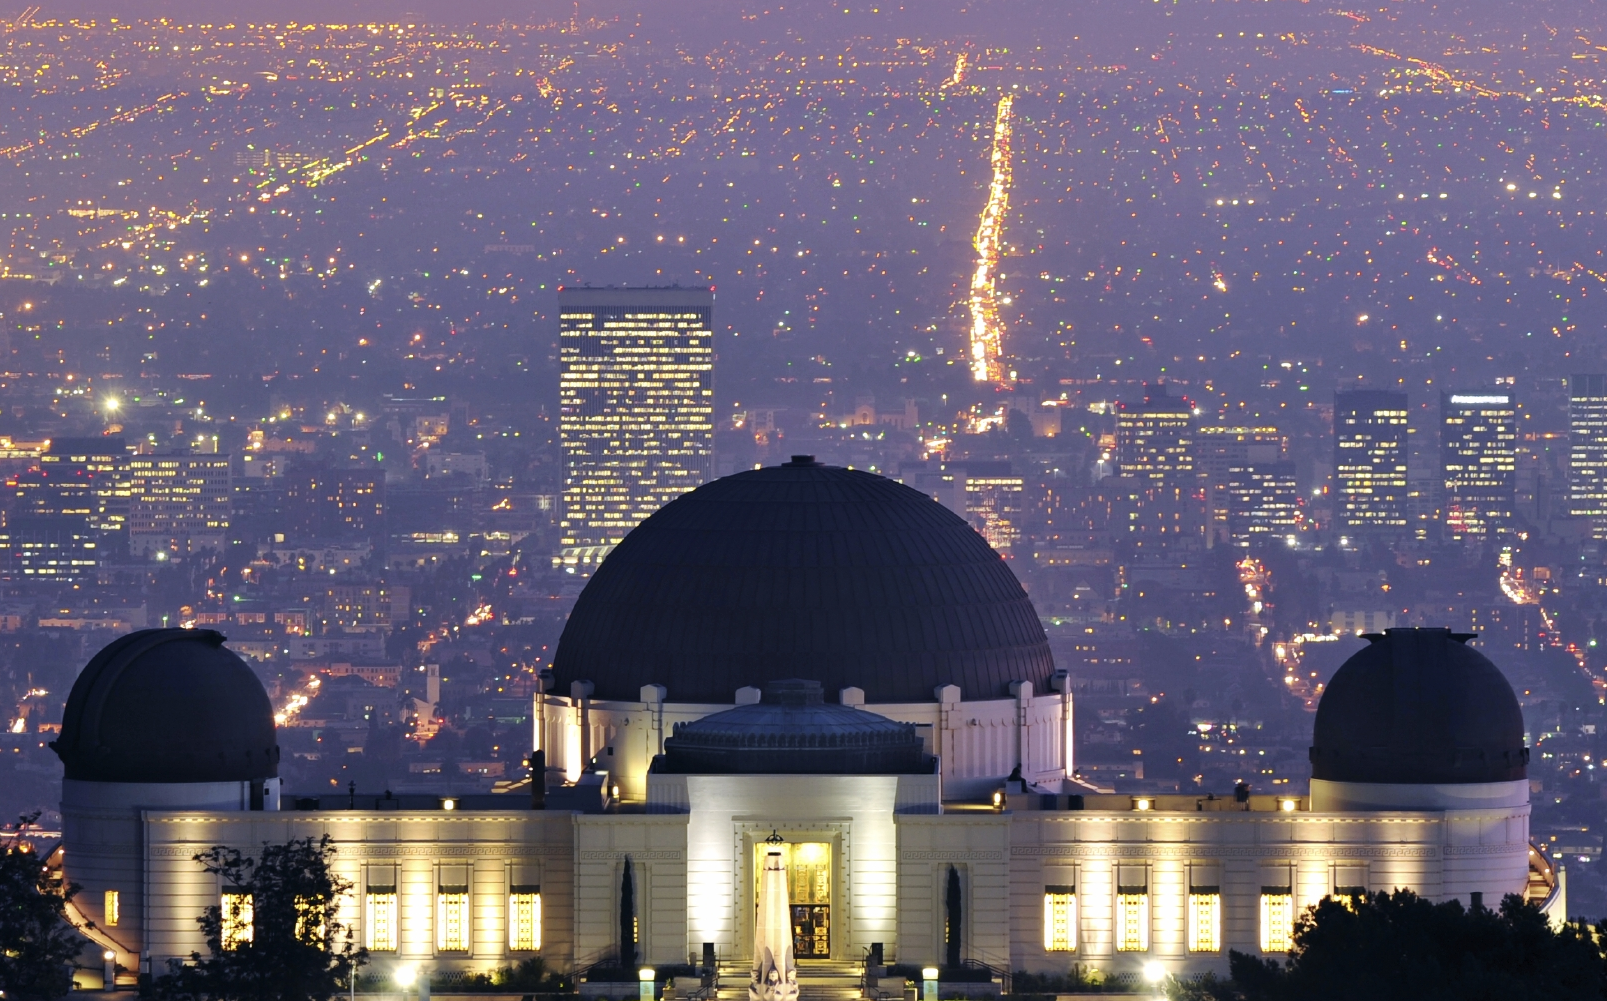
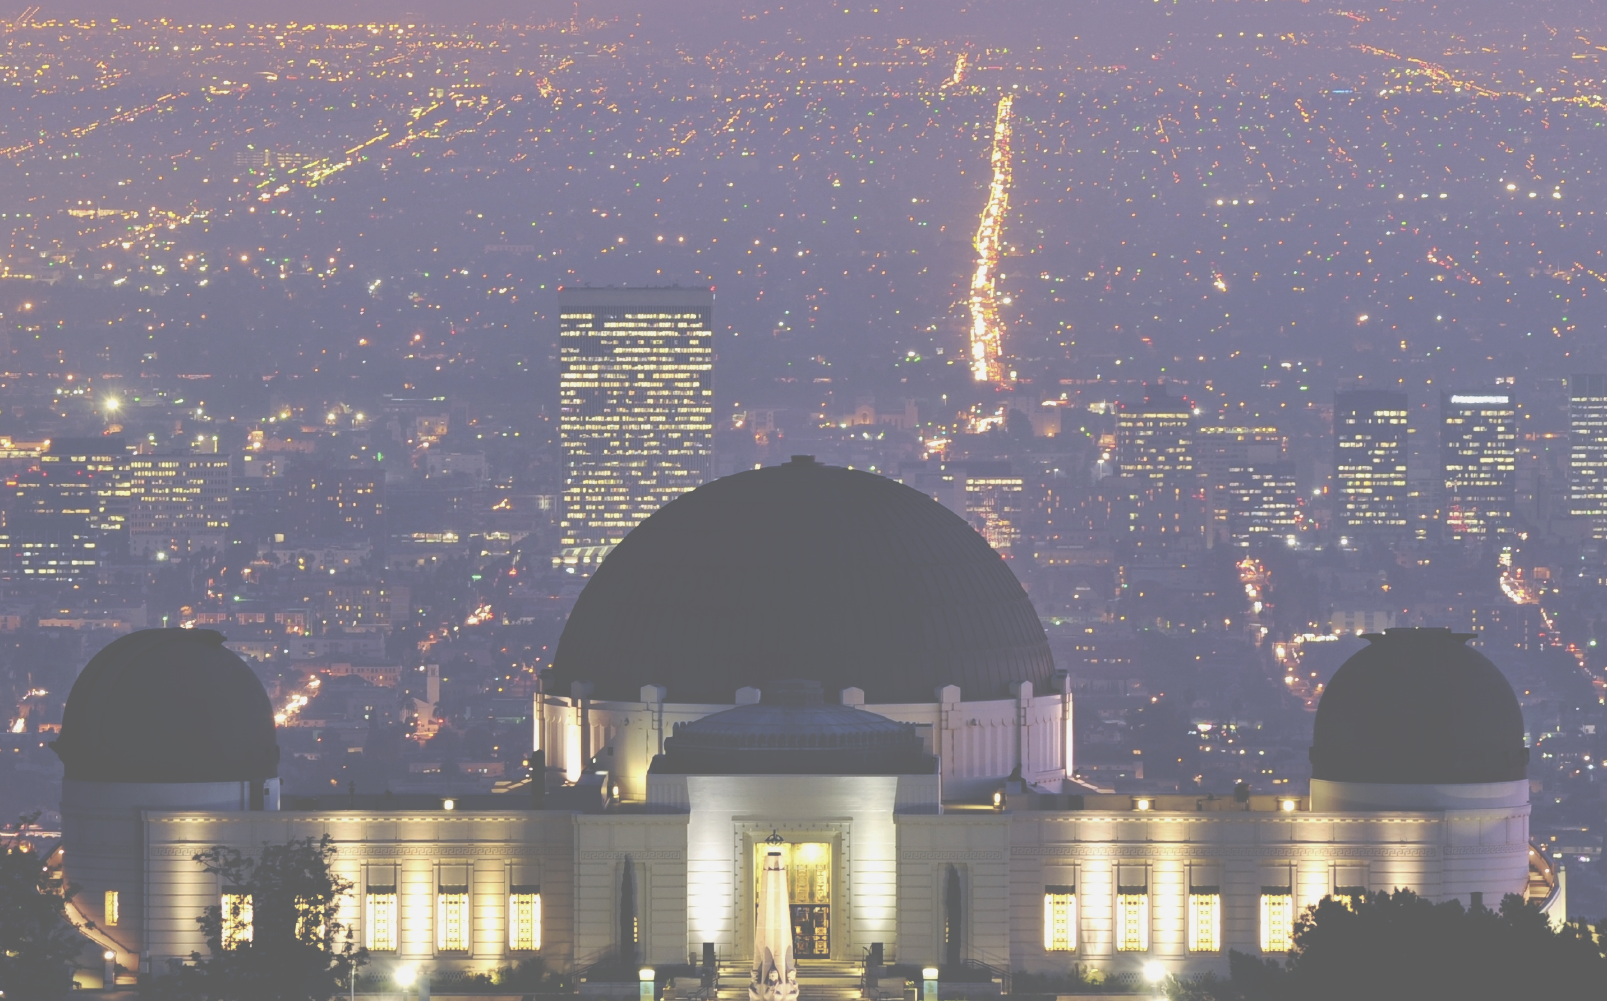
changes background images on main page

diff --git a/css/style.css b/css/style.css
@@ -6,15 +6,16 @@
 
 .row {
   background-repeat: no-repeat;
+  height: 700px;
 }
 
 #row1 {
-  background-image: url("../images/beach_postcard.png");
+  background-image: url("../images/manhattan_beach.png");
   background-size: cover;
   background-position: center center;
   margin-left: 0px;
   margin-top: 25px;
-  height: 675px;
+  /*height: 675px;*/
 }
 
 #start-textbox1 {
@@ -39,9 +40,10 @@
 
 #row2 {
 /*  background-color: #F5F4D3;*/
-  height: 680px;
-  background-image: url("../images/wilshire_postcard.png");
+  /*height: 680px;*/
+  background-image: url("../images/santa_monica.png");
   background-size: cover;
+  background-position: center center;
 }
 
 #start-textbox2 {
@@ -64,10 +66,11 @@
 }
 
 #row3 {
-  background-image: url("../images/hollywood_postcard.png");
+  background-image: url("../images/griffith.png");
   margin-left: 0px;
   background-size: cover;
-  height: 680px;
+  background-position: center center;
+  /*height: 680px;*/
 }
 
 #start-textbox3 {
@@ -108,7 +111,7 @@
 /* signin.html styling */
 
 #signin-background {
-  background-image: url("../images/santamonica_postcard.png");
+  background-image: url("../images/santa_monica.png");
   background-size: cover;
   height: 700px;
 }
